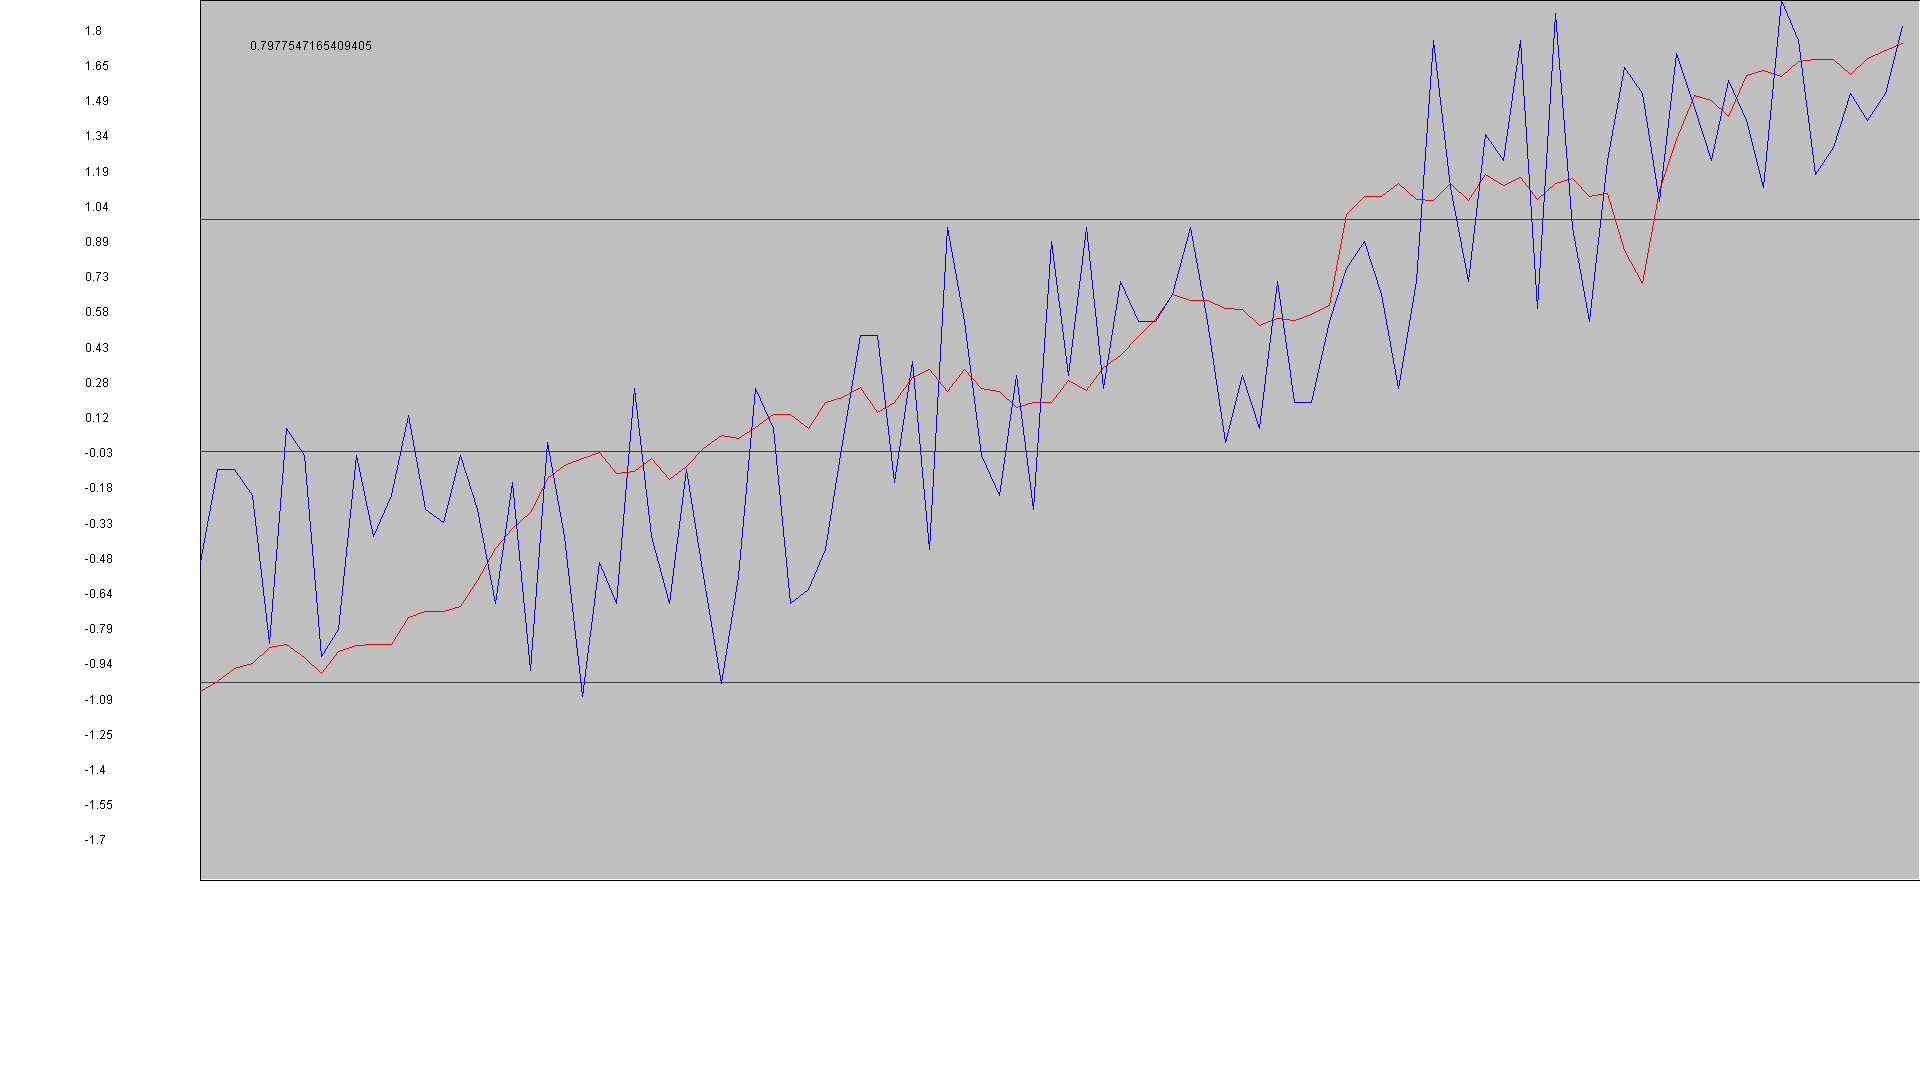
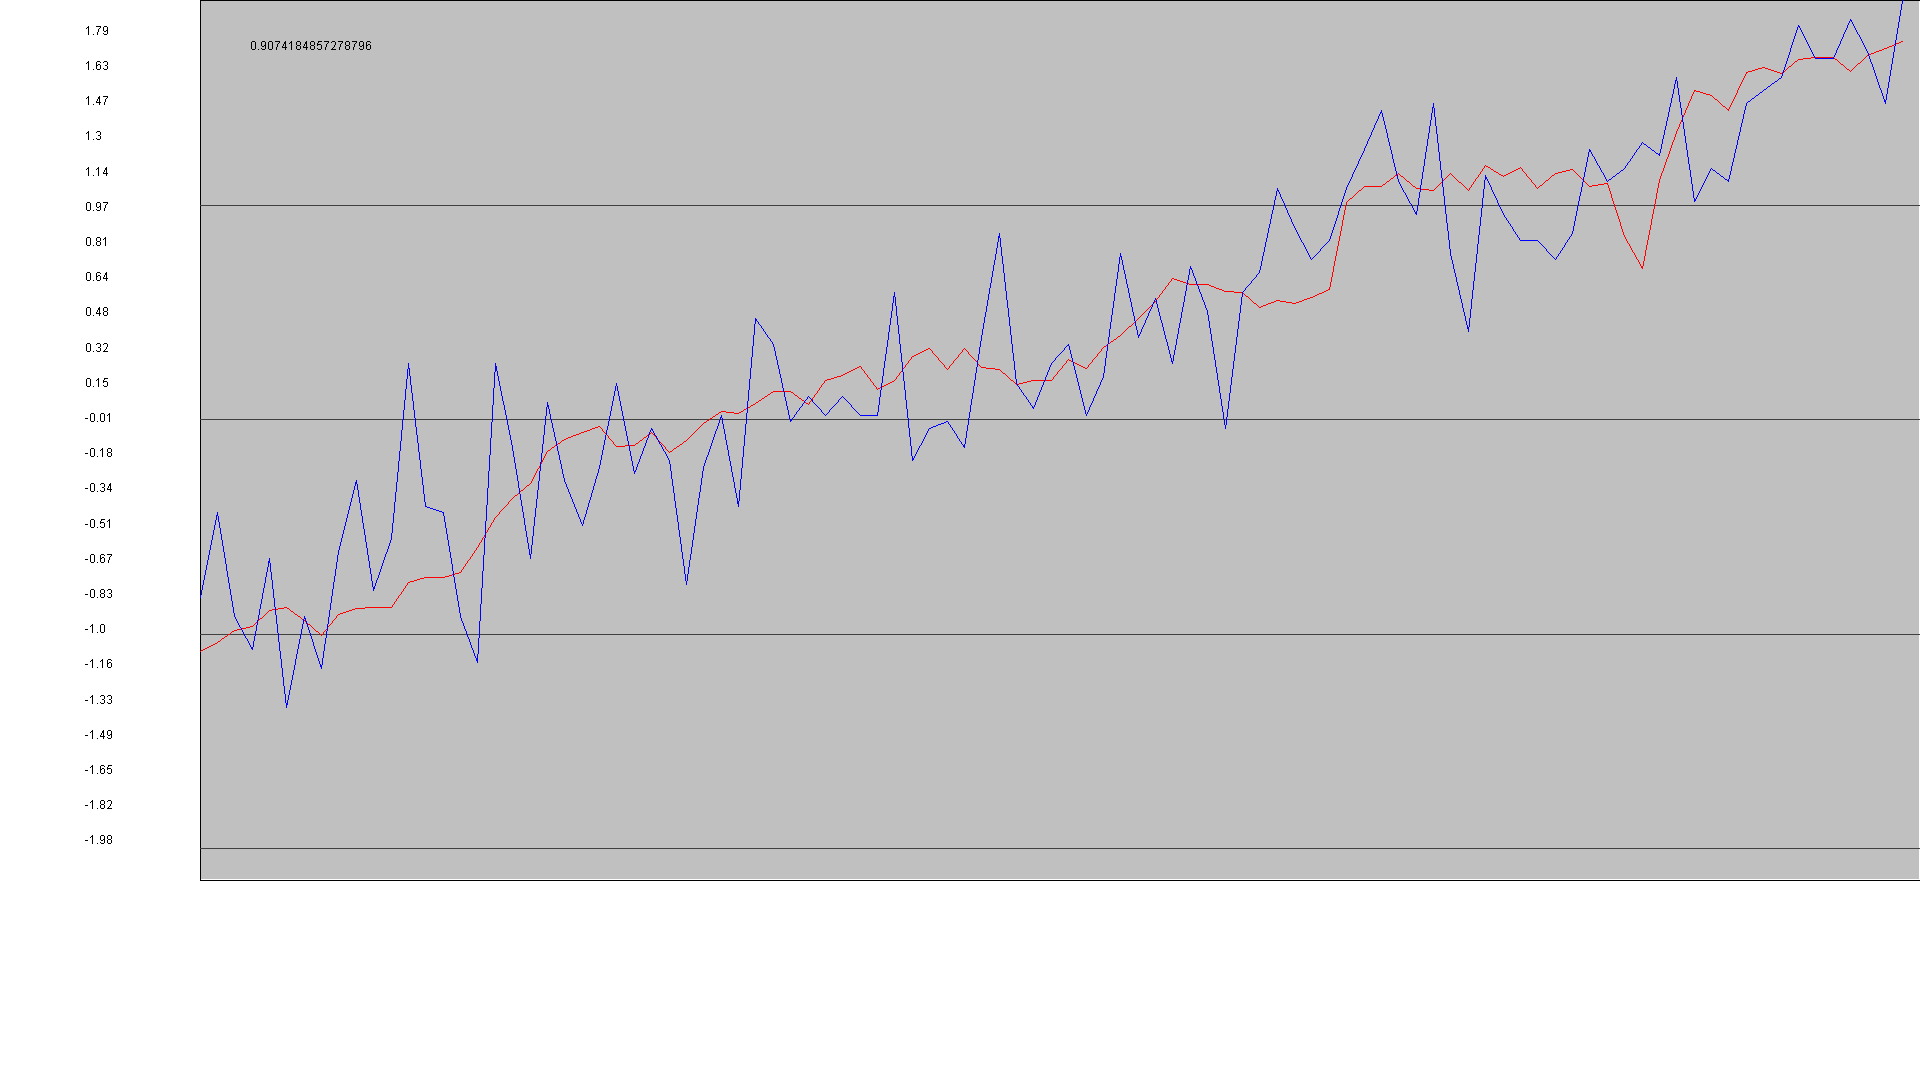
added ability to remove NAN's

diff --git a/src/twitterstocks/Covariance_output.java b/src/twitterstocks/Covariance_output.java
@@ -28,15 +28,27 @@ public class Covariance_output {
             Logger.getLogger(Covariance_output.class.getName()).log(Level.SEVERE, null, ex);
         }
         
+        ArrayList<String> words = Database.words;
+        ArrayList <String> RevWords = new ArrayList <String> ();
         
-        for(int indicator = 0; indicator < Database.indicators.size();indicator++)
+        for(int index = 0; index < words.size(); index ++)
+        {
+            double count = Compare.sum(Database.getCountOfWordGraph(words.get(index)));
+            System.out.println("index: " + index +" " + words.get(index) + " wordcount: " + count);
+                    if(count>10)
+                    {
+                          RevWords.add(words.get(index));
+                    }    
+        }//takes out all the NAN's
+        System.out.println("removed null words");
+        
+        for(int indicator = 1; indicator < Database.indicators.size();indicator++)
         {
             System.out.println(Database.indicators.get(indicator).getName());
         
-        int numtests = 10000;// number of tests with random word combinations
+        int numtests = 100000;// number of tests with random word combinations
         int numwords = 20;//number of words in a combination
-        ArrayList<String> words = Database.words;
-        numtests = words.size();
+        numtests = RevWords.size();
         Double [] correlations = new Double [numtests];
         String [] matchWord = new String [numtests];
         double maxR = 0.0;
@@ -46,7 +58,7 @@ public class Covariance_output {
             ArrayList<int [] []>countlists = new ArrayList <int [] []>() ;
             for(int y = 0; y<1;y++)
             {
-                String temp = words.get(x);
+                String temp = RevWords.get(x);
                 matchWord[x] = temp;
                 countlists.add(Database.getCountOfWordGraph(temp));
             }
@@ -72,10 +84,10 @@ public class Covariance_output {
         
         
         
-        for(int display = 0; display < correlations.length; display ++)
-        {
+        //for(int display = 0; display < correlations.length; display ++)
+        //{
            // System.out.println(matchWord[display]+ " R: " + correlations[display]);   
-        } 
+        //} 
         
         
         String [] wordsPos = new String [50];
@@ -88,11 +100,11 @@ public class Covariance_output {
         String [] wordsNeg = new String [50];
         for(int matchindex = matchWord.length-1; matchindex > (matchWord.length-1) - (wordsNeg.length); matchindex-- )
         {
-            wordsNeg [9999-matchindex] = matchWord[matchindex];
+            wordsNeg [RevWords.size()-1-matchindex] = matchWord[matchindex];
         }
         
         
-        numtests=1000;
+        numtests=400000;
         for(int x = 0; x <numtests; x++)
         {
             ArrayList<int [] []>countlists = new ArrayList <int [] []>() ;

diff --git a/src/twitterstocks/Compare.java b/src/twitterstocks/Compare.java
@@ -209,6 +209,17 @@ class Compare {
         return sum;
     }
     
+    
+    static double sum(int[][] word)
+    {
+        double sum = 0;
+        for (int[] wordCount : word)
+        {
+                sum += wordCount[1];
+        }
+        return sum;
+    }
+    
     private static double standardDev(double[][] data)
     {
         double xMean = mean(data);
